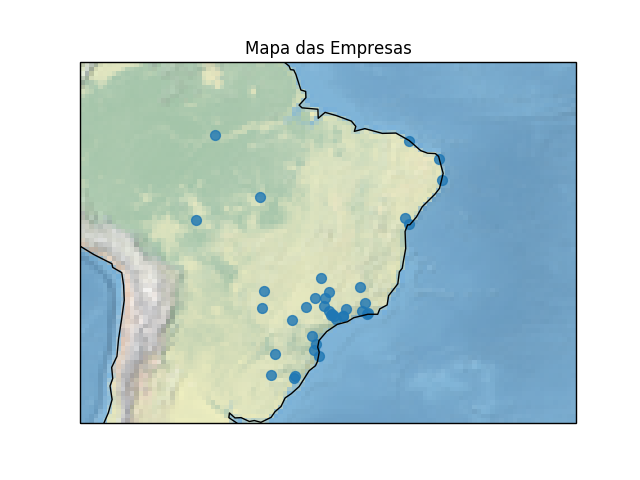
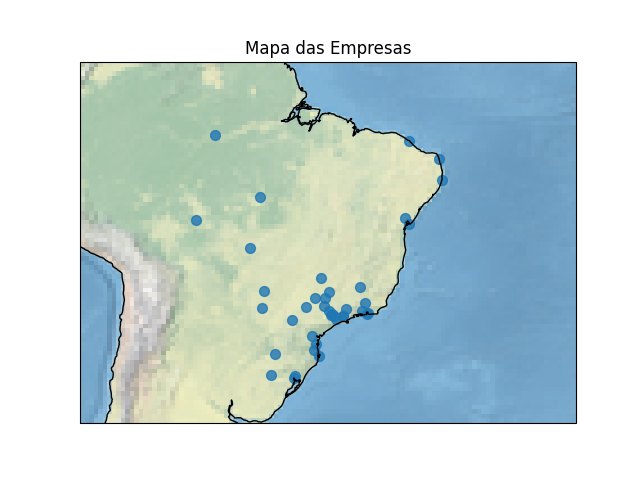
Adiciona empresas de Cuiabá-Mato Grosso (#152)

diff --git a/README.md b/README.md
@@ -92,6 +92,16 @@ Logo | Empresa | Site | Contato | Vagas | Auxílio a Mudança | Aceita Remoto
  --- | --- | --- | --- | --- | --- | ---
 ![logo](logos/ello-tecnologia.png) | Ello Tecnologia | [www.ellotecnologia.net.br](http://www.ellotecnologia.net.br) | clayton@ellotecnologia.net.br
 
+#### Cuiabá
+
+Logo | Empresa | Site | Contato | Vagas | Auxílio a Mudança | Aceita Remoto
+ --- | --- | --- | --- | --- | --- | ---
+![logo](logos/default.png) | Connect Group | [https://www.connect.com.vc](https://www.connect.com.vc) | contato@connect.com.vc | | | |
+![logo](logos/lucrorural.png) | Lucro Rural | [https://www.lucrorural.com.br](https://www.lucrorural.com.br) | contato@lucrorural.com.br | | | Sim |
+![logo](logos/default.png) | NUTI | [http://www.ic.ufmt.br](http://www.ic.ufmt.br) | raphael@ic.ufmt.br | | | |
+![logo](logos/default.png) | Nuvem | [https://nuvem.net](https://nuvem.net/) | https://nuvem.net/#faleconosco | https://carreiras.nuvem.net | | Sim |
+
+
 ### Mato Grosso do Sul
 
 #### Campo Grande
